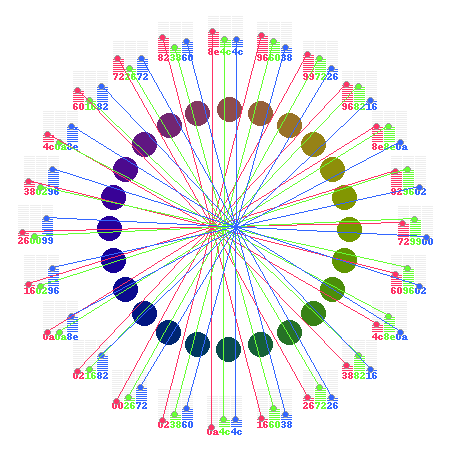
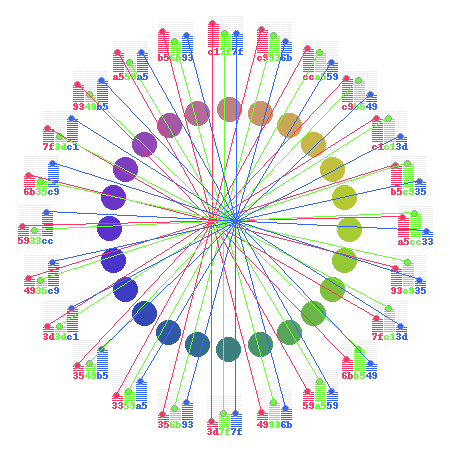
tone_filter 試し中

Changed region(s): [[0.0311, 0.0311, 0.9644, 0.9644], [0.1556, 0.7467, 0.2489, 0.84], [0.4356, 0.9022, 0.5289, 0.9644]]

diff --git a/step14.py b/step14.py
@@ -35,7 +35,7 @@ def main():
     im = Image.new('RGB', (450, 450), white)
     draw = ImageDraw.Draw(im)
     # 正順
-    color_list = bright_fileter(create_cos_wave(size))
+    color_list = tone_filter(create_cos_wave(size), 1, 0)
     draw_tone_circle(draw, theta_list, color_list)
     # リバース
     #color_list = reverse2_filter(create_cos_wave(size))
@@ -57,36 +57,23 @@ def main():
 
     im = Image.new('RGB', (450, 450), white)
     draw = ImageDraw.Draw(im)
-    color_list = pale_fileter(create_cos_wave(size))
+    color_list = tone_filter(create_cos_wave(size), 0.2, 0.8)
     draw_tone_circle(draw, theta_list, color_list)
     im.save('shared/pale-tone.png')
 
     im = Image.new('RGB', (450, 450), white)
     draw = ImageDraw.Draw(im)
-    color_list = dark_fileter(create_cos_wave(size))
+    color_list = tone_filter(create_cos_wave(size), 0.6, 0.2)
     draw_tone_circle(draw, theta_list, color_list)
     im.save('shared/dark-tone.png')
 
 
-def bright_fileter(color_list):
-
-    # ３本の波にフィルターを掛けます
-    return unnormalize_filter(normalize_filter(color_list))
-    # print(f"[{i}] {new_color[0]:02x} {new_color[1]:02x} {new_color[2]:02x}")
-
-
-def dark_fileter(color_list):
-    rate = 0.6
-    return unnormalize_filter(add_filter(multiple_filter(normalize_filter(color_list), rate), 1-rate-0.4))
+def tone_filter(color_list, multiple, offset):
+    return unnormalize_filter(add_filter(multiple_filter(normalize_filter(color_list), multiple), offset))
 
 
 def light_fileter(color_list):
     rate = 0.4
-    return unnormalize_filter(add_filter(multiple_filter(normalize_filter(color_list), rate), 1-rate))
-
-
-def pale_fileter(color_list):
-    rate = 0.2
     return unnormalize_filter(add_filter(multiple_filter(normalize_filter(color_list), rate), 1-rate))
 
 
